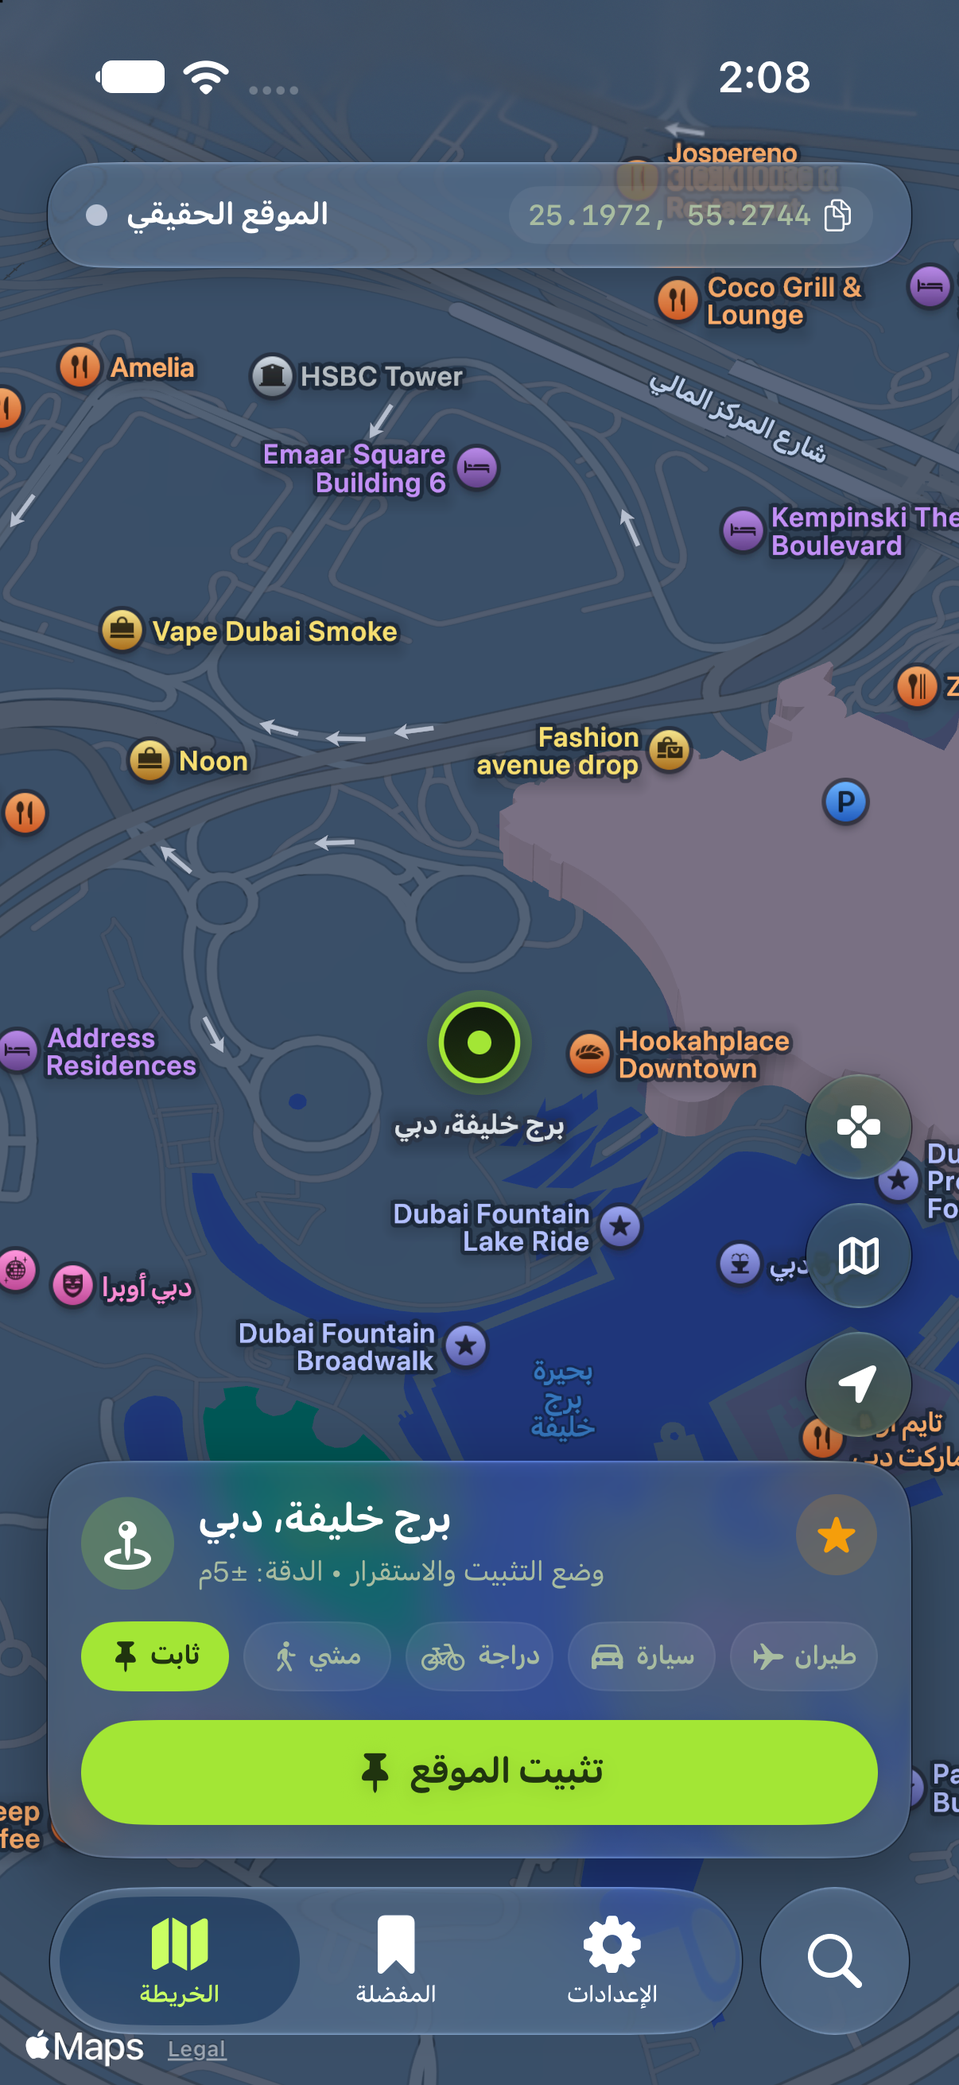
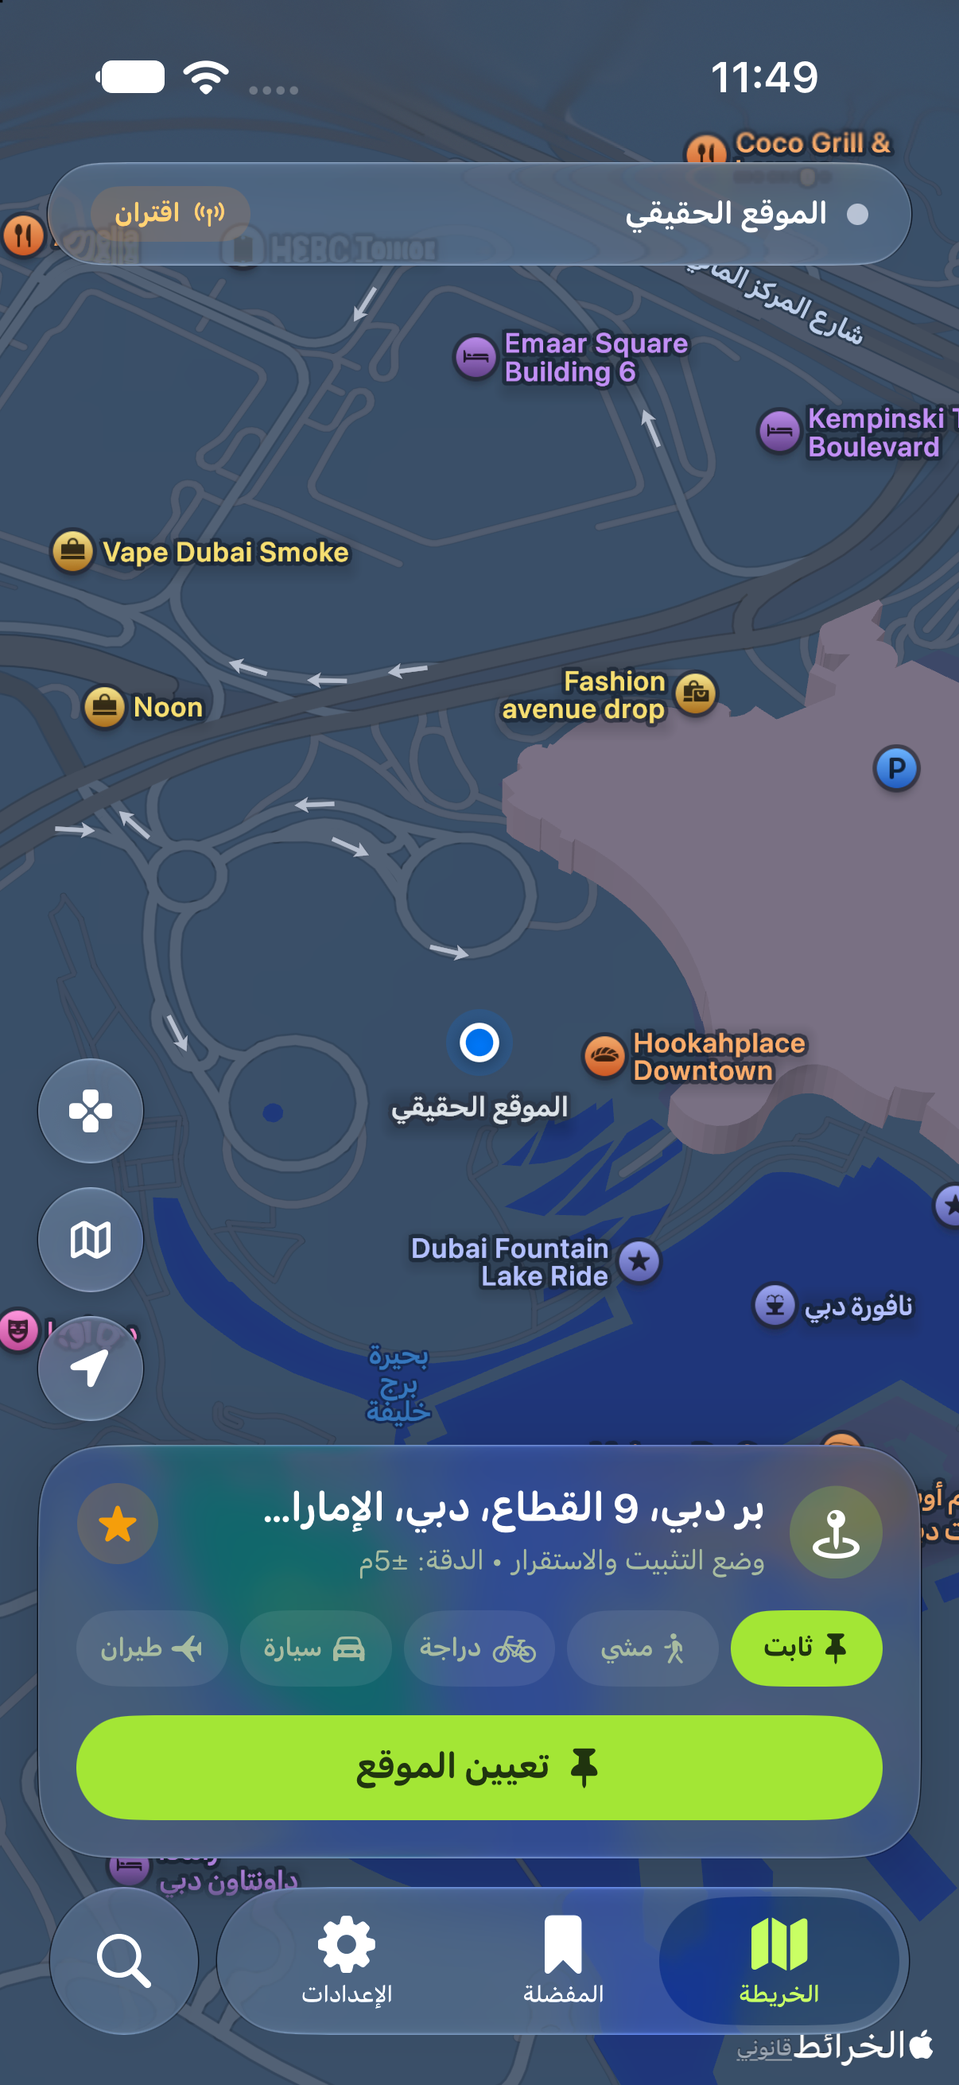
docs: Update screenshots with latest simulator captures and refine typography with sleek symbols

diff --git a/README.md b/README.md
@@ -1,23 +1,24 @@
 <div align="center">
 
-<img src="assets/icon.png" width="128" height="128" alt="Locanger Icon" style="border-radius: 28px; box-shadow: 0 10px 30px rgba(0,0,0,0.25);" />
+<img src="assets/icon.png" width="120" height="120" alt="Locanger Icon" style="border-radius: 26px; box-shadow: 0 8px 24px rgba(0,0,0,0.18);" />
 
-# Locanger 📍
-### محاكي وتثبيت الموقع الجغرافي المتقدم لنظام iOS (بدون جيلبريك وبدون كمبيوتر)
-**Next-Generation Jailed iOS Location Simulation Engine**
+# Locanger
+### محاكي وتثبيت الموقع الجغرافي لنظام iOS بدون جيلبريك وبدون كمبيوتر
+**Advanced Jailed iOS Location Simulation Engine**
 
 <p align="center">
   <a href="https://github.com/alibusut/Locanger-App/releases/latest">
-    <img src="https://img.shields.io/github/v/release/alibusut/Locanger-App?color=A3E635&label=%D8%A7%D9%84%D8%A5%D8%B5%D8%AF%D8%A7%D8%B1%20Release&style=for-the-badge" alt="Latest Release" />
+    <img src="https://img.shields.io/github/v/release/alibusut/Locanger-App?color=1C300E&label=Release&style=flat-square" alt="Latest Release" />
   </a>
-  <img src="https://img.shields.io/badge/iOS-16.0%20--%2026.0%2B-000000?style=for-the-badge&logo=apple&logoColor=white" alt="iOS Support" />
-  <img src="https://img.shields.io/badge/Jailbreak-NOT%20Required-success?style=for-the-badge&color=22C55E" alt="No Jailbreak" />
-  <img src="https://img.shields.io/badge/Sideload-TrollStore%20%7C%20AltStore%20%7C%20SideStore-blue?style=for-the-badge&color=3B82F6" alt="Sideloading" />
+  <img src="https://img.shields.io/badge/Platform-iOS%2016.0%20—%2027.0%2B-18181b?style=flat-square" alt="iOS Support" />
+  <img src="https://img.shields.io/badge/Architecture-CoreDevice%20DDI%20%2F%20Loopback%20VPN-18181b?style=flat-square" alt="Architecture" />
+  <img src="https://img.shields.io/badge/Sideload-TrollStore%20%7C%20AltStore%20%7C%20SideStore-18181b?style=flat-square" alt="Sideloading" />
+  <img src="https://img.shields.io/badge/License-Proprietary-18181b?style=flat-square" alt="License" />
 </p>
 
 <p align="center">
   <a href="https://github.com/alibusut/Locanger-App/releases/latest">
-    <img src="https://img.shields.io/badge/%E2%AC%87%EF%B8%8F_%D8%AA%D8%AD%D9%85%D9%8A%D9%84_Locanger.ipa_(Direct_Download)-A3E635?style=for-the-badge&labelColor=1C300E&color=A3E635" height="42" alt="Download IPA" />
+    <img src="https://img.shields.io/badge/%E2%86%93_Download_Locanger.ipa-A3E635?style=for-the-badge&labelColor=1C300E&color=A3E635" height="38" alt="Download IPA" />
   </a>
 </p>
 
@@ -25,101 +26,99 @@
 
 ---
 
-## 🌟 نظرة عامة | Overview
+### ◈ نظرة عامة — Overview
 
-**Locanger** هو تطبيق احترافي متطور صُمم خصيصاً لتغيير وتثبيت ومحاكاة الموقع الجغرافي (GPS) على جميع أجهزة iPhone و iPad دون الحاجة إلى كسر حماية النظام (No Jailbreak)، وبدون الحاجة لربط الجهاز بالكمبيوتر أثناء الاستخدام اليومي.
+تطبيق **Locanger** هو محرك برمجي متكامل لتغيير وتثبيت ومحاكاة إحداثيات الموقع الجغرافي (GPS) على جميع أجهزة iPhone و iPad دون الحاجة لكسر حماية النظام (No Jailbreak)، وبشكل ذاتي ومستقل تماماً على الجهاز دون الحاجة لربطه بجهاز كمبيوتر أثناء الاستخدام.
 
-يعتمد التطبيق على بروتوكول **Apple CoreDevice DDI** ونفق شبكة محلي آمن ومغلق (**Split-Tunnel Loopback VPN**) لتوجيه إحداثيات الموقع مباشرة إلى خدمات الموقع في النظام (`locationd`)، مما يجعله يعمل بسلاسة تامة وموثوقية عالية على جميع تطبيقات التواصل والخرائط والألعاب.
+يعتمد المحرك على تكامل تقني مباشر بين بروتوكول **Apple CoreDevice DDI** ونفق محلي معزول (**Internal Loopback Split-Tunnel NetworkExtension**)، مما يتيح حقن الإحداثيات مباشرة إلى خدمة الموقع المركزية (`locationd`) في نظام iOS بدقة واستقرار تام.
 
 ---
 
-## 📸 لقطات الشاشة | Screenshots
+### ◈ واجهة التطبيق — Application Interface
 
 <div align="center">
   <table>
     <tr>
-      <th width="33%">الوضع الليلي (Dark Mode)</th>
-      <th width="33%">الوضع النهاري (Light Mode)</th>
-      <th width="33%">English Interface</th>
+      <th width="33%" align="center">الوضع الداكن (Dark Mode)</th>
+      <th width="33%" align="center">الوضع الفاتح (Light Mode)</th>
+      <th width="33%" align="center">English Interface</th>
     </tr>
     <tr>
-      <td><img src="assets/screenshot-dark.png" width="100%" alt="Dark Mode" /></td>
-      <td><img src="assets/screenshot-light.png" width="100%" alt="Light Mode" /></td>
-      <td><img src="assets/screenshot-en.png" width="100%" alt="English Mode" /></td>
+      <td align="center"><img src="assets/screenshot-dark-ar.png" width="100%" alt="Locanger Dark Mode Arabic" /></td>
+      <td align="center"><img src="assets/screenshot-light-ar.png" width="100%" alt="Locanger Light Mode Arabic" /></td>
+      <td align="center"><img src="assets/screenshot-light-en.png" width="100%" alt="Locanger Light Mode English" /></td>
     </tr>
   </table>
 </div>
 
 ---
 
-## ✨ المميزات الرئيسية | Key Features
+### ◈ المواصفات الهندسية والمميزات — Key Features
 
-- 📍 **تثبيت الموقع والانتقال الفوري (Instant Teleportation)**: إمكانية اختيار أي نقطة في العالم بلمسة واحدة والانتقال إليها فوراً بدقة عالية تصل إلى $\pm 5$ أمتار.
-- 🚶 **محاكاة الحركة الواقعية (Multi-Speed Simulation)**:
-  - 🚶 **المشي (Walk)**: سرعة واقعية (1.2 م/ث - 4.3 كم/س).
-  - 🚴 **الدراجة (Bike)**: سرعة متوسطة (4.5 م/ث - 16 كم/س).
-  - 🚗 **السيارة (Car)**: سرعة قيادة واقعية (15.0 م/ث - 54 كم/س).
-  - ✈ **الطيران (Flight)**: سرعة تنقل فائقة للمسافات البعيدة (60.0 م/ث).
-- 📶 **المساعد الخلوي الذكي (Cellular Assistant)**:
-  - تقنية ذكية تتيح تثبيت الموقع الجغرافي بكفاءة متناهية حتى أثناء استخدام **بيانات الهاتف الخلوية (Cellular Data / 4G / 5G)** دون تضارب مع أبراج الاتصال.
-  - واجهة إرشادية أنيقة ومباشرة ترشد المستخدم إلى الإجراء الصحيح بضغطة زر واحدة.
-- 🕹 **عصا التحكم التفاعلية (Floating Virtual Joystick)**:
-  - عصا تحكم عائمة على الشاشة تتيح لك التحرك في جميع الاتجاهات بحرية وسلاسة داخل التطبيقات والألعاب.
-- 🔒 **نفق محلي مشفر وآمن 100% (Local Split-Tunnel Loopback)**:
-  - يعمل نفق الـ VPN داخلياً على عنوان الاسترجاع الذاتي للجهاز (`127.0.0.1`) فقط للتخاطب مع خدمات النظام، ولا يمرر أي بيانات إنترنت إلى أي خادم خارجي، مما يحافظ على الخصوصية الكاملة وسرعة الإنترنت الطبيعية.
-- 🎨 **تصميم فخم بهوية Apple Liquid Glass**:
-  - واجهات زجاجية ناعمة تدعم الوضعين الداكن (Dark Mode) والفاتح (Light Mode) بتباين بصري عالي ومريح للعين مع تناسق كامل مع لغة تصميم iOS الحديثة.
-- 🌐 **دعم كامل للغتين العربية والإنجليزية (Bilingual Support)**.
+- **✦ تثبيت الموقع والانتقال الفوري (Instant Teleportation)**  
+  اختيار وتحديد أي موقع في العالم بلمسة واحدة والانتقال إليه فوراً بدقة عالية تصل إلى $\pm 5$ أمتار.
 
----
+- **✦ محاكاة السرعة المتعددة (Multi-Speed Motion Simulation)**  
+  محاكاة حركة واقعية للمسارات مع أنماط سرعة متعددة:
+  - **نمط المشي (Walk)**: سرعة واقعية (1.2 م/ث — 4.3 كم/س).
+  - **نمط الدراجة (Bike)**: سرعة متوسطة (4.5 م/ث — 16.0 كم/س).
+  - **نمط السيارة (Car)**: سرعة تنقل قيادة (15.0 م/ث — 54.0 كم/س).
+  - **نمط الطيران (Flight)**: سرعة تنقل فائقة للمسافات البعيدة (60.0 م/ث).
 
-## 📥 طرق التثبيت والتحميل | Installation Guide
+- **✦ مساعد البيانات الخلوية (Cellular Assistant)**  
+  نظام تكيف ذكي يسمح بتثبيت وتأكيد إحداثيات الموقع حتى أثناء الاتصال بشبكات الهاتف الخلوية (4G / 5G) دون تشتت الإشارة مع أبراج التغطية، عبر تسلسل تهيئة سريع ومباشر.
 
-يمكن تثبيت ملف **Locanger.ipa** على جهازك باستخدام أي من الطرق المعتمدة التالية:
+- **✦ عصا التحكم الافتراضية العائمة (Floating Virtual Joystick)**  
+  أداة تحكم سلسة على الشاشة تتيح المناورة واستكشاف المحيط في جميع الاتجاهات بزوايا دقيقة.
 
-### 1. TrollStore (الطريقة الموصى بها - iOS 14.0 إلى 17.0)
-1. قم بتحميل ملف `Locanger.ipa` من قسم [Releases](https://github.com/alibusut/Locanger-App/releases/latest).
-2. افتح الملف عبر تطبيق **TrollStore**.
-3. اضغط على **Install**. سيعمل التطبيق بكامل صلاحياته ودون الحاجة لتجديد الشهادات كل 7 أيام.
+- **✦ نفق شبكة محلي آمن (Zero-Exposure Loopback Tunnel)**  
+  نفق الـ VPN يعمل كلياً داخل عنوان الحلقة المحلية (`127.0.0.1`) لمخاطبة خدمات النظام فقط. لا يتم توجيه أو تسجيل أي حزم بيانات خارج جهازك، مما يحافظ على الخصوصية والسرعة الأصلية لاتصالك.
 
-### 2. AltStore / SideStore (بدون جيلبريك لجميع الإصدارات)
-1. حمّل ملف `Locanger.ipa` على هاتفك.
-2. افتح تطبيق **AltStore** أو **SideStore**.
-3. انتقل إلى تبويب **My Apps** واضغط على علامة `+`.
-4. اختر ملف `Locanger.ipa` وانتظر حتى تكتمل عملية التوقيع والتثبيت.
-
-### 3. أدوات التوقيع الأخرى (Scarlet / LiveContainer / ESign)
-- يدعم التطبيق التثبيت عبر الشهادات المؤسسية والمطورة باستخدام أدوات التوقيع المباشر بكل سهولة.
+- **✦ لغة تصميم Apple Liquid Glass**  
+  واجهات مستخدم مريحة للعين تدعم التباين العالي والتناغم اللوني الدقيق للوضعين الليلي والنهاري، مع دعم تلقائي كامل للغتين العربية والإنجليزية.
 
 ---
 
-## 💡 كيفية استخدام التطبيق وتثبيت الموقع على البيانات الخلوية
+### ◈ طرق التثبيت والتشغيل — Installation
 
-1. **الخطوة الأولى**: افتح التطبيق وحدد المكان المطلوب على الخريطة (أو استخدم شريط البحث للعثور على أي مدينة أو معلم سياحي).
-2. **الخطوة الثانية (في حال كنت متصلاً بالبيانات الخلوية)**:
-   - اضغط على زر **تثبيت الموقع** أو **انتقال فوري**.
-   - في حال ظهور نافذة **مساعد البيانات الخلوية**:
-     1. أوقف تفعيل البيانات الخلوية مؤقتاً من مركز التحكم أو الإعدادات.
-     2. عد للتطبيق واضغط **تثبيت الموقع**.
-     3. أعد تشغيل البيانات الخلوية فوراً.
-   - سيستمر الموقع ثابتاً في مكانه المحدد طوال فترة الاستخدام!
-3. **التحكم بالسرعة والحركة**: يمكنك التبديل بين وضع الثبات أو المشي أو القيادة لتجربة حركة حية ومستمرة.
+> [!TIP]
+> يوصى باستخدام **TrollStore** للحصول على أفضل تجربة وتفعيل دائم دون الحاجة لإعادة التوقيع أسبوعياً.
+
+#### 1. التثبيت عبر TrollStore (iOS 14.0 — 17.0)
+1. حمّل ملف `Locanger.ipa` من [صفحة الإصدارات الرسمية](https://github.com/alibusut/Locanger-App/releases/latest).
+2. افتح الملف واضغط **Share** ثم اختر **TrollStore**.
+3. اضغط **Install**. التطبيق سيعمل بكامل صلاحياته مباشرة.
+
+#### 2. التثبيت عبر AltStore / SideStore
+1. حمّل ملف `Locanger.ipa` إلى تطبيق الملفات على جهازك.
+2. افتح **AltStore** أو **SideStore** وانتقل إلى تبويب **My Apps**.
+3. اضغط على أيقونة `+` واختر الملف لإتمام التوقيع والتثبيت.
+
+#### 3. التثبيت عبر أدوات التوقيع الأخرى (Scarlet / LiveContainer / ESign)
+- يدعم التطبيق التثبيت عبر الشهادات المباشرة وشهادات المطورين على كافة إصدارات iOS.
 
 ---
 
-## 🛡 الخصوصية والأمان | Privacy & Security
+### ◈ آلية تثبيت الموقع عند استخدام البيانات الخلوية
 
-- التطبيق **لا يقوم بجمع أو إرسال أي بيانات شخصية** أو سجلات للمواقع الجغرافية إلى أي خوادم خارجية.
-- جميع عمليات المحاكاة وتوليد الاتصال بالنفق المحلي تجري كلياً داخل معالج هاتفك الشخصي (`On-Device Processing`).
+```
+[تحديد الموقع المطلوب] ──▸ [إيقاف البيانات الخلوية مؤقتاً] ──▸ [الضغط على تعيين الموقع] ──▸ [إعادة تشغيل البيانات]
+```
+
+1. **الخطوة الأولى**: حدد النقطة المراد محاكاتها على الخريطة.
+2. **الخطوة الثانية**: في حال كنت متصلاً ببيانات الهاتف الخلوية، قم بإيقاف البيانات الخلوية مؤقتاً من مركز التحكم.
+3. **الخطوة الثالثة**: اضغط على زر **تعيين الموقع** (أو **انتقال فوري**).
+4. **الخطوة الرابعة**: أعد تشغيل البيانات الخلوية. سيبقى الموقع ثابتاً ومستقراً طوال فترة الاستخدام.
 
 ---
 
-## 👨💻 المطور | Developer
+### ◈ الأمان والخصوصية — Privacy & Security
 
-تم تطوير وهندسة التطبيق بالكامل بواسطة **[Ali Latif (@alibusut)](https://github.com/alibusut)**.
+> [!NOTE]
+> معالجة الإحداثيات وتوجيهها تتم بالكامل على معالج الجهاز (**On-Device Processing**). التطبيق لا يتصل بأي خوادم خارجية ولا يجمع أي معلومات تتعلق بالهوية أو النشاط أو سجل المواقع.
 
 ---
 
 <div align="center">
-  <sub>صُنع بكل إتقان واحترافية • Built with precision & passion for iOS</sub>
+  <sub>هندسة وتطوير: <b>Ali Latif (@alibusut)</b> • جميع الحقوق محفوظة</sub>
 </div>
